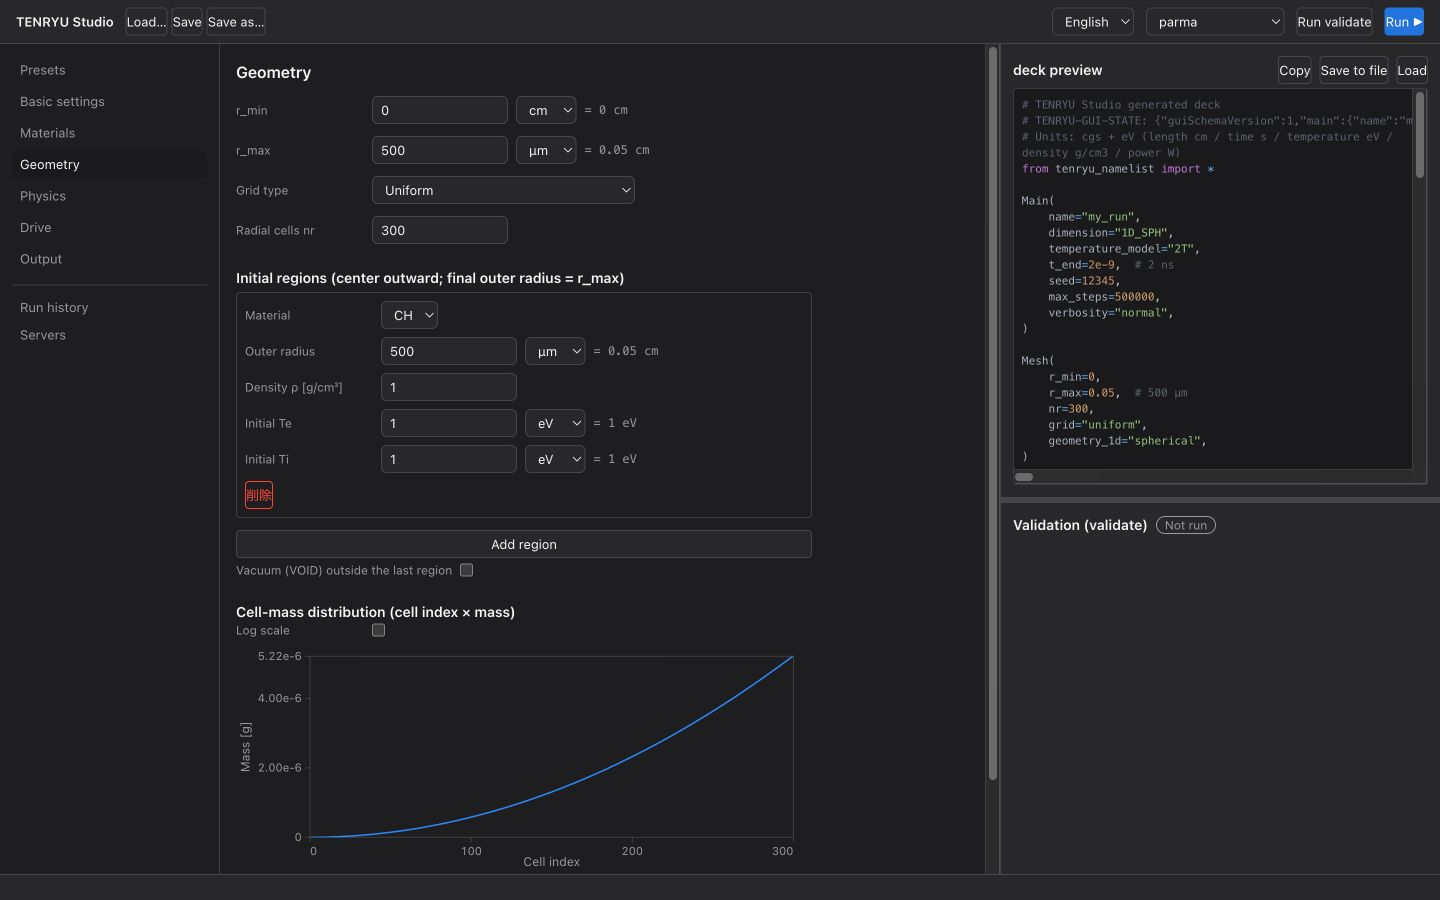
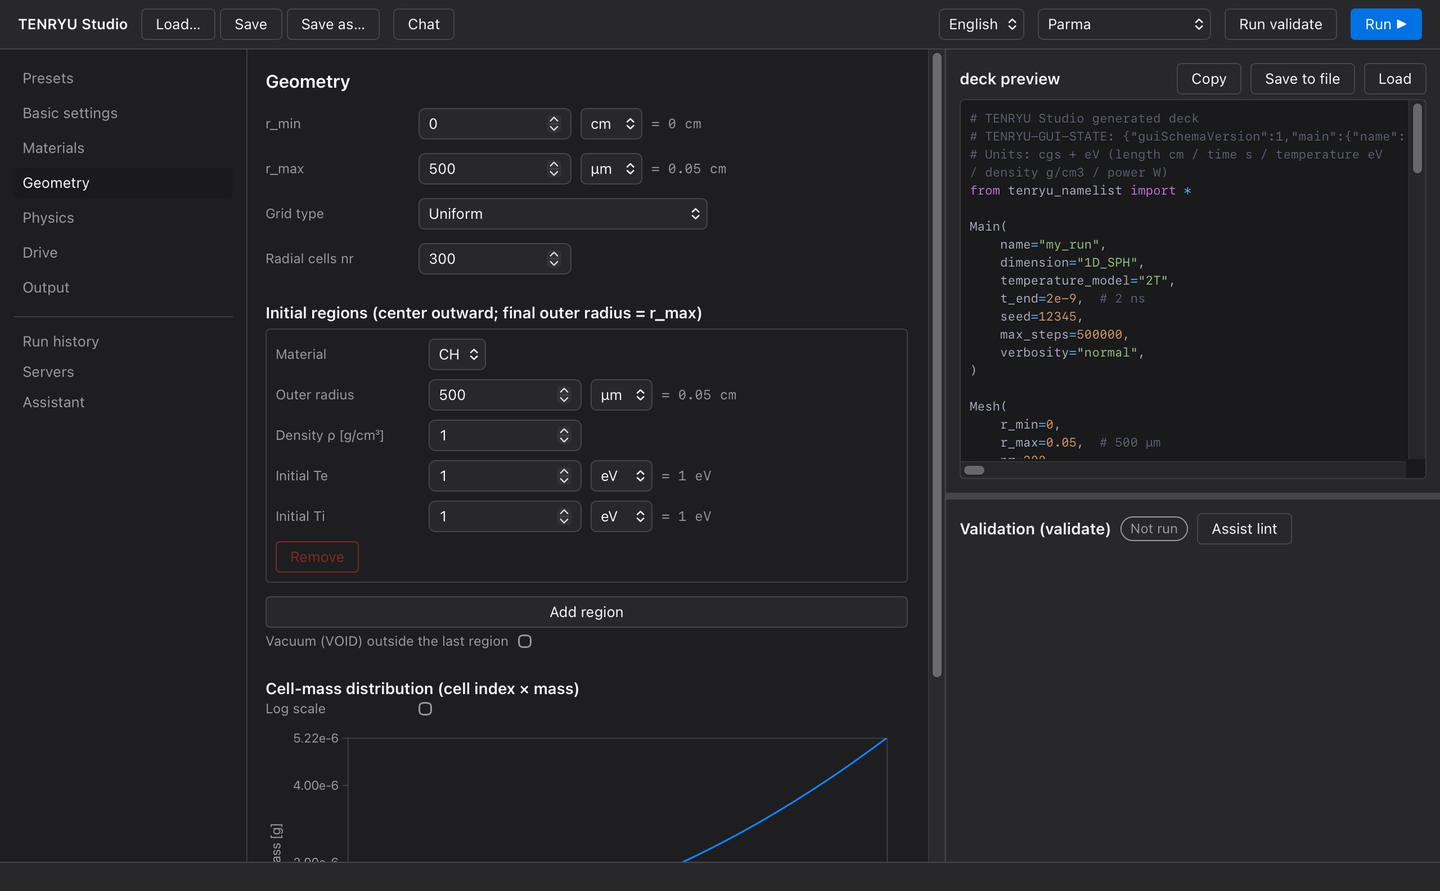
Update to main@d42a19cc1 — TENRYU Studio remove buttons labelled from the message catalogues (Remove in the English UI), with a test against hard-coded Japanese UI text and retaken English manual screenshots

diff --git a/gui/test/i18nNoHardcodedJapanese.test.ts b/gui/test/i18nNoHardcodedJapanese.test.ts
@@ -1,0 +1,45 @@
+import fs from "node:fs";
+import path from "node:path";
+import { describe, expect, it } from "vitest";
+
+// Text shown in the UI comes from the message catalogues (src/i18n/ja.ts and
+// en.ts). A Japanese literal written directly in a component stays Japanese
+// when the English UI is selected: the remove buttons of the Materials,
+// Geometry and Drive tabs did until 2026-09-27. Comments and the list bullet
+// "・" are allowed.
+const UI_DIR = path.resolve(__dirname, "..", "src");
+const JAPANESE = /[\u3040-\u30ff\u3400-\u9fff]/;
+
+function tsxFiles(dir: string): string[] {
+  const files: string[] = [];
+  for (const entry of fs.readdirSync(dir, { withFileTypes: true })) {
+    const full = path.join(dir, entry.name);
+    if (entry.isDirectory()) files.push(...tsxFiles(full));
+    else if (entry.name.endsWith(".tsx")) files.push(full);
+  }
+  return files;
+}
+
+// Removes comments but keeps their newlines, so line numbers still match.
+function stripComments(source: string): string {
+  return source
+    .replace(/\/\*[\s\S]*?\*\//g, (comment) => comment.replace(/[^\n]/g, ""))
+    .replace(/(^|[^:"'`])\/\/.*$/gm, "$1");
+}
+
+describe("UI components", () => {
+  it("take Japanese text from the message catalogues, not from literals", () => {
+    const files = tsxFiles(UI_DIR);
+    expect(files.length).toBeGreaterThan(10);
+    const offenders: string[] = [];
+    for (const file of files) {
+      const lines = stripComments(fs.readFileSync(file, "utf8")).split("\n");
+      lines.forEach((line, index) => {
+        if (JAPANESE.test(line.replace(/・/g, ""))) {
+          offenders.push(`${path.relative(UI_DIR, file)}:${index + 1}: ${line.trim()}`);
+        }
+      });
+    }
+    expect(offenders, offenders.join("\n")).toEqual([]);
+  });
+});

diff --git a/gui/src/ui/sections/MeshSection.tsx b/gui/src/ui/sections/MeshSection.tsx
@@ -172,7 +172,7 @@ export default function MeshSection() {
                     value={seg.nr}
                     onChange={(n) => update((f) => { f.mesh.segments[i].nr = n ?? 0; })}
                   />
-                  <Button onClick={() => update((f) => { f.mesh.segments.splice(i, 1); })}>削除</Button>
+                  <Button onClick={() => update((f) => { f.mesh.segments.splice(i, 1); })}>{m.common.remove}</Button>
                 </div>
               ))}
               <Button
@@ -282,7 +282,7 @@ export default function MeshSection() {
                 disabled={form.geometry.regions.length === 1}
                 onClick={() => update((f) => { f.geometry.regions.splice(i, 1); })}
               >
-                削除
+                {m.common.remove}
               </Button>
             </div>
           ))}
@@ -392,7 +392,7 @@ export default function MeshSection() {
                   variant="danger"
                   onClick={() => update((f) => { f.geometry.shapes2d.splice(i, 1); })}
                 >
-                  削除
+                  {m.common.remove}
                 </Button>
               </div>
               <TextField
@@ -537,7 +537,7 @@ export default function MeshSection() {
                           f.geometry.shapes2d[i].vertices.splice(vertexIndex, 1);
                         })}
                       >
-                        削除
+                        {m.common.remove}
                       </Button>
                     </div>
                   ))}

diff --git a/gui/src/ui/sections/LaserSection.tsx b/gui/src/ui/sections/LaserSection.tsx
@@ -311,7 +311,7 @@ export default function LaserSection() {
                       disabled={form.laser.beams.length === 1}
                       onClick={() => update((f) => { f.laser.beams.splice(i, 1); })}
                     >
-                      削除
+                      {m.common.remove}
                     </Button>
                   )}
                 </div>

diff --git a/gui/src/ui/sections/MaterialsSection.tsx b/gui/src/ui/sections/MaterialsSection.tsx
@@ -190,7 +190,7 @@ export default function MaterialsSection() {
             disabled={form.materials.length === 1}
             onClick={() => update((f) => { f.materials.splice(i, 1); })}
           >
-            削除
+            {m.common.remove}
           </Button>
         </div>
       ))}

diff --git a/gui/src/i18n/en.ts b/gui/src/i18n/en.ts
@@ -864,6 +864,7 @@ export const en: Messages = {
     close: "Close",
     copy: "Copy",
     loading: "Loading…",
+    remove: "Remove",
   },
   validation: {
     caseName: "Case name must contain only alphanumerics, _, or - (not empty)",

diff --git a/gui/src/i18n/ja.ts b/gui/src/i18n/ja.ts
@@ -863,6 +863,7 @@ export const ja = {
     close: "閉じる",
     copy: "コピー",
     loading: "読み込み中…",
+    remove: "削除",
   },
   validation: {
     caseName: "ケース名は英数字・_・- のみ (空不可)",

diff --git a/CHANGELOG.md b/CHANGELOG.md
@@ -2,6 +2,14 @@
 
 配布スナップショットの更新記録です。日付はスナップショット作成日。
 
+## 2026-09-27
+
+GUI（TENRYU Studio）の英語表示の不具合を直しました。ソルバーと同梱のデッキは変わりません。
+
+### 不具合修正
+
+- **GUI の材料・ジオメトリー・駆動のタブの削除ボタンが、英語表示でも「削除」と日本語で表示されていた。** 6 か所でボタンの文言がソースに直接書かれていました。表示用の辞書から取るようにし、英語では Remove と表示します。画面の部品のソースに日本語の文言が直接書かれていないことを確かめる試験を加え、GUI のマニュアル（英語）の材料とジオメトリーの画像 3 枚も撮り直しました。
+
 ## 2026-09-26
 
 配布物のビルドの不具合と、1D の再開・MPI の不具合（MPI の複数ランクでの電子の熱伝導の陰解法と、スナップショット・チェックポイント・履歴の出力を含む）を直し、互換エネルギー方式を低温平衡構成則と併用できるようにし、キーを読むだけで何もしていなかったイオン熱伝導を 1D に実装しました。同梱のデッキの 1 ランクでの結果は、512 セル以上の 1D の 2 温度のデッキ（`examples/implosion/gxii_square_120J_6ns_fld_nr600.py`、`gxii_square_240J_12ns_fld_nr1500.py`）が状態方程式の閉包の核関数の選択により丸め誤差の程度で変わるほかは変わりません（燃焼のある run を途中から再開した場合は、再開後の燃焼の集計が元の run と最下位ビットまで一致するようになります。MPI の複数ランクで電子の熱伝導の陰解法を使う run の結果は変わります）。
